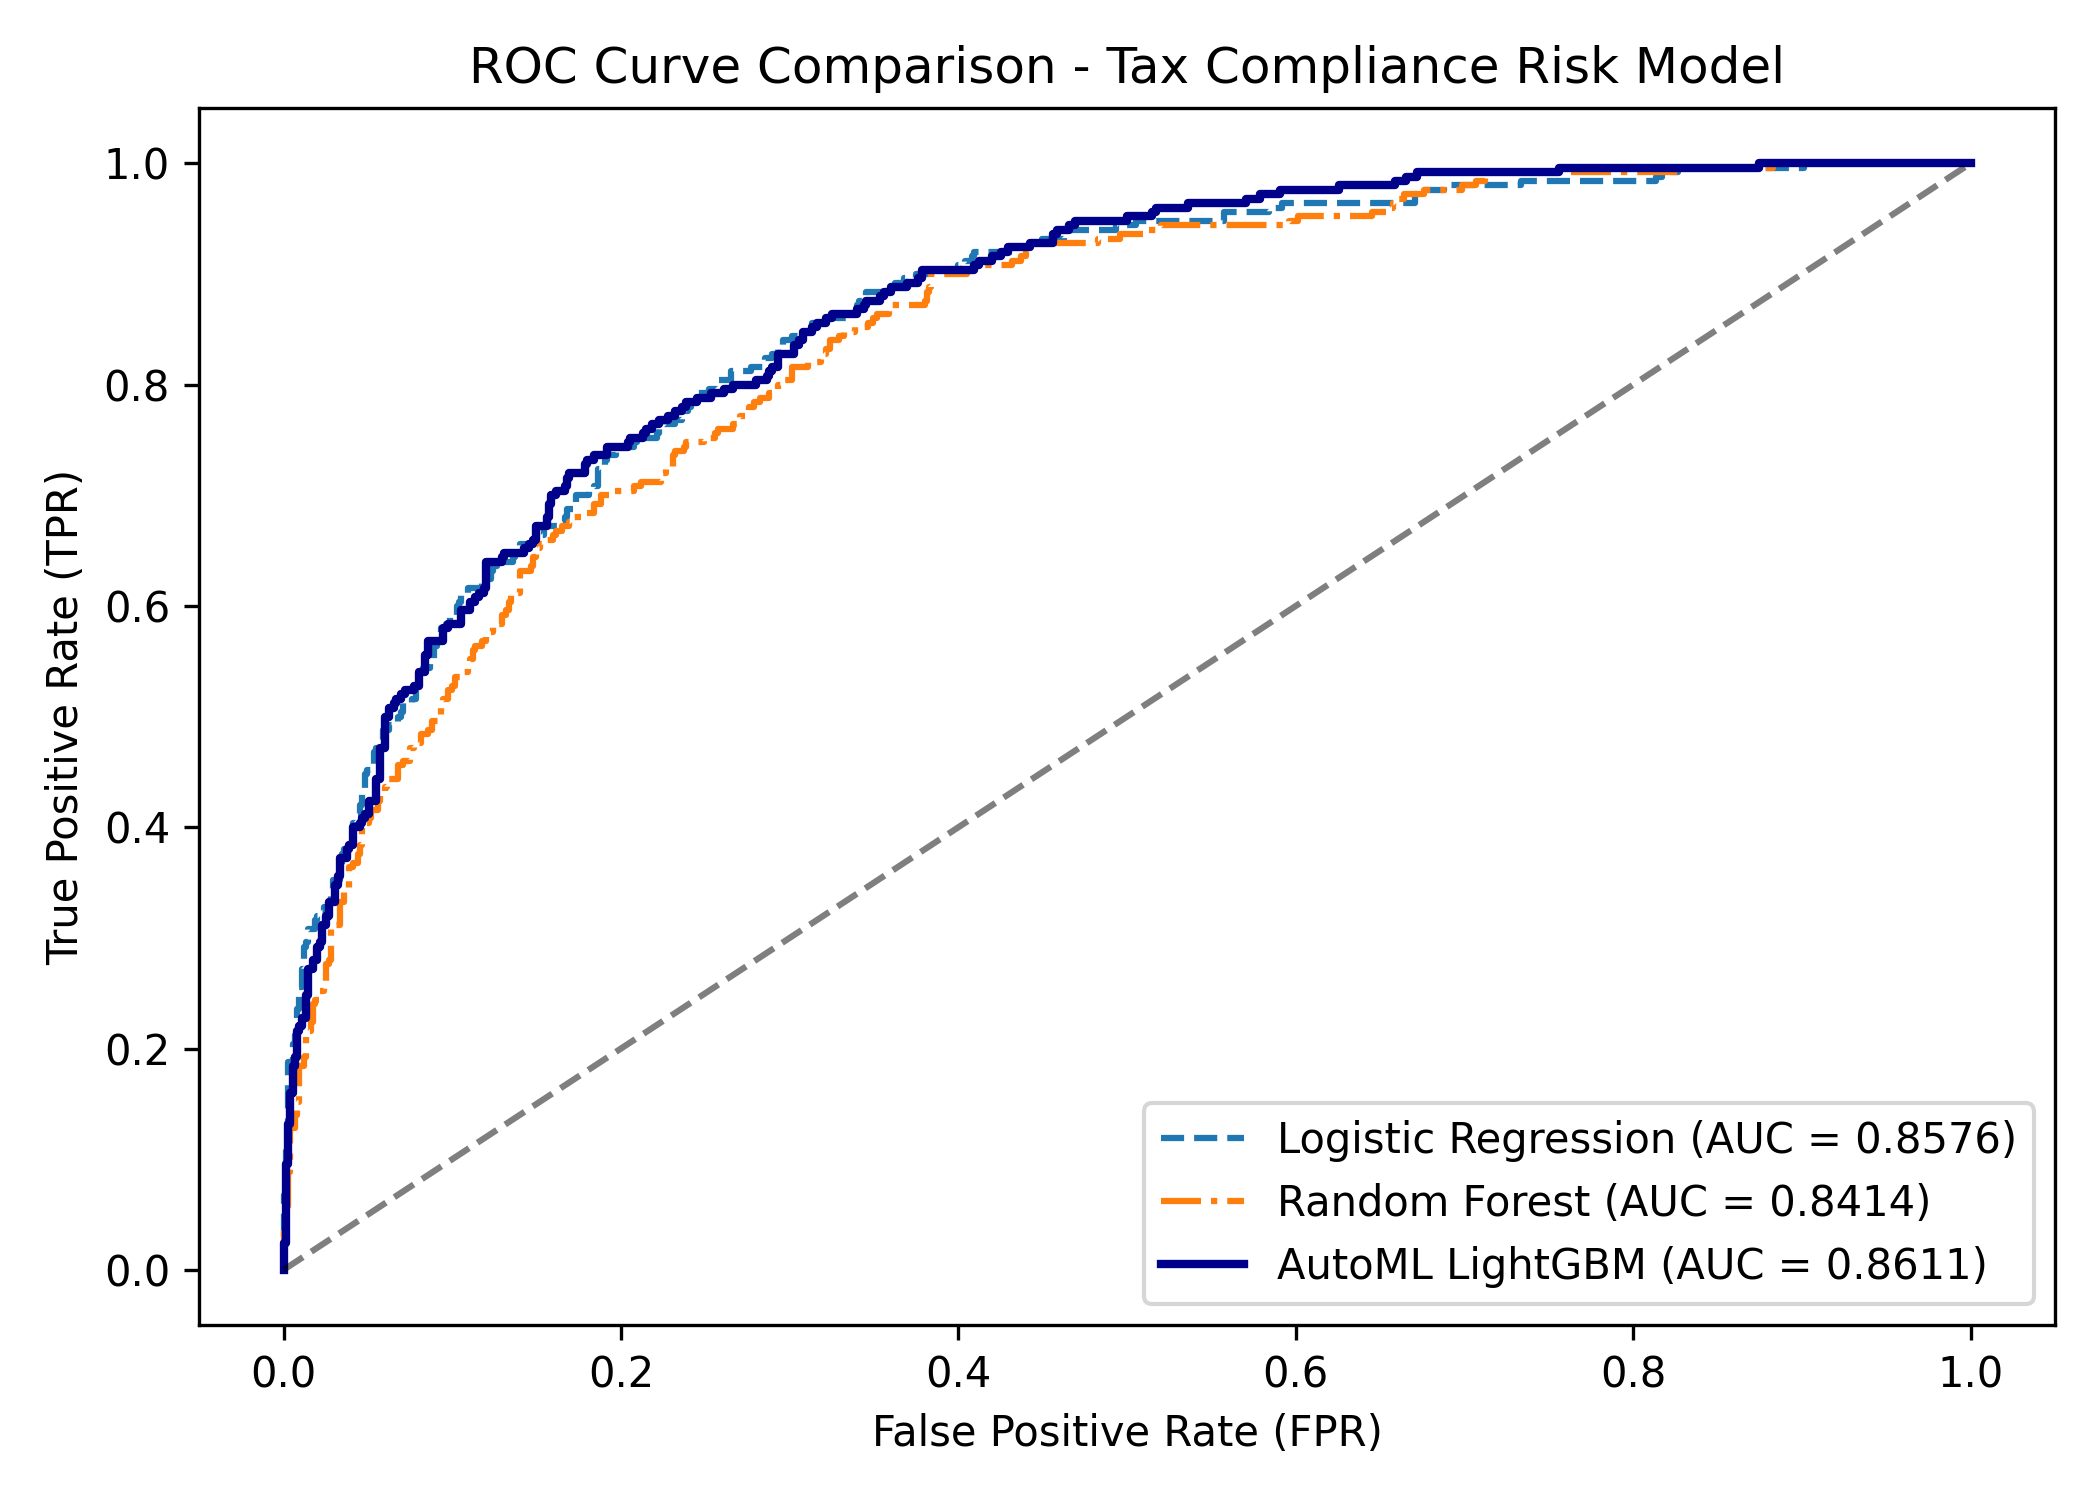
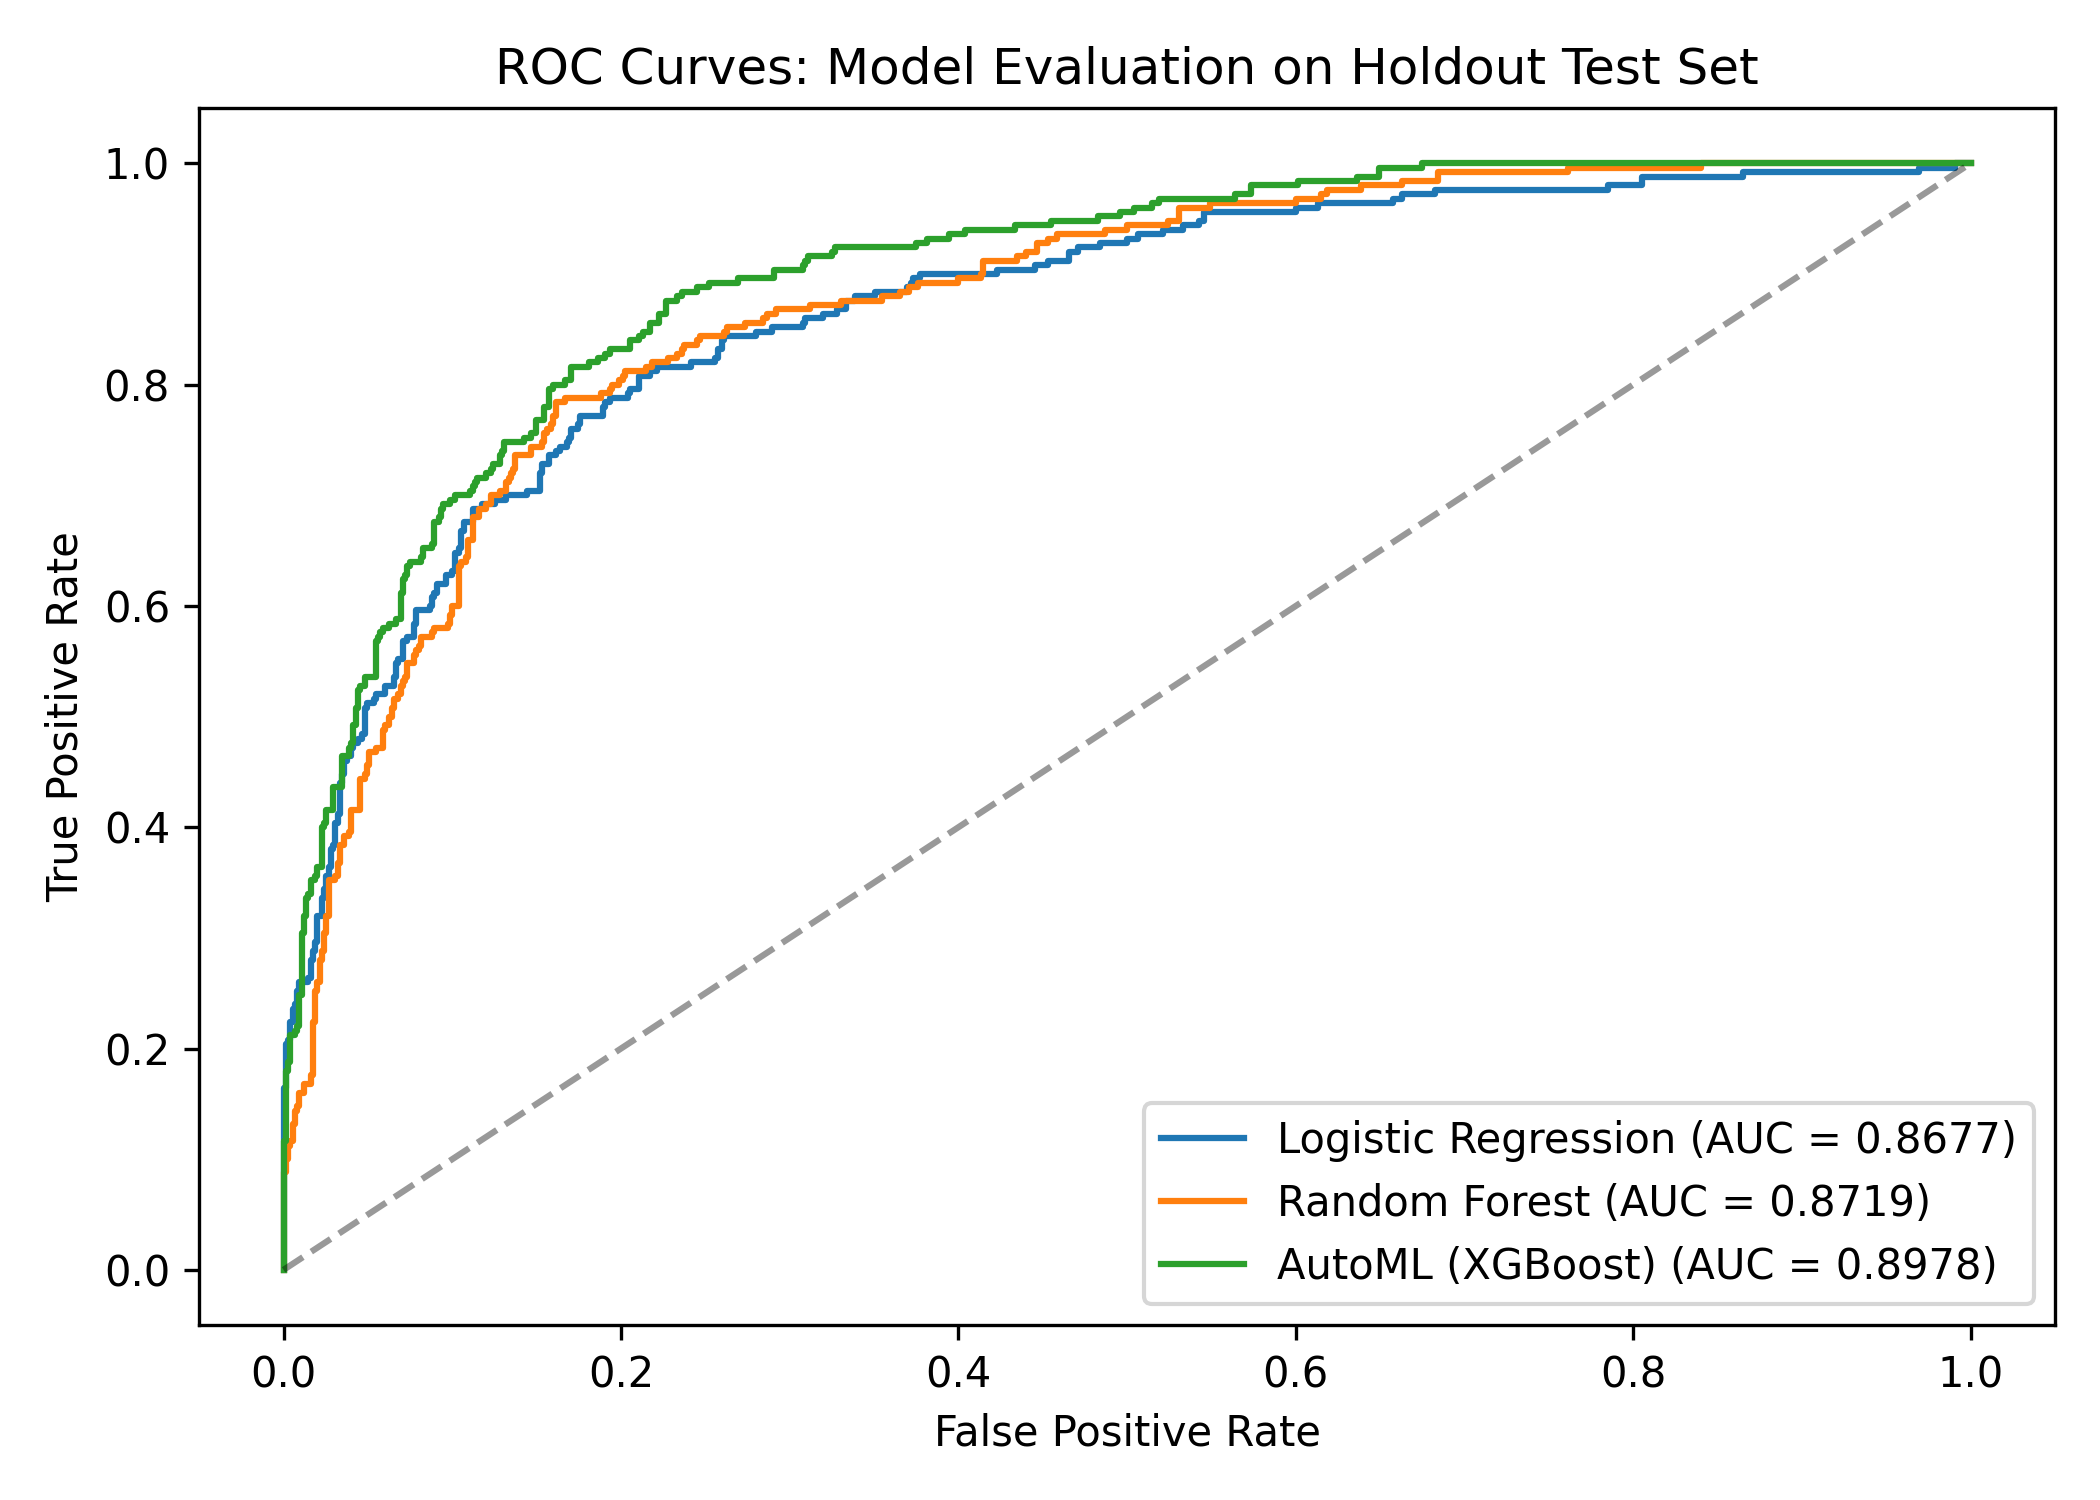
docs: sync paper.md with exact Optuna multi-model execution results

diff --git a/paper.md b/paper.md
@@ -53,14 +53,14 @@ Hasil evaluasi performa model pada *holdout test set* (1.000 sampel) disajikan d
 
 | Model | ROC-AUC | PR-AUC | F1-Score | Precision | Recall |
 | :--- | :---: | :---: | :---: | :---: | :---: |
-| Logistic Regression (Baseline) | 0.8576 | 0.7044 | 0.5608 | 0.7012 | 0.4680 |
-| Random Forest (Tuned) | 0.8414 | 0.6569 | 0.4837 | 0.6420 | 0.3880 |
-| **AutoML (LightGBM Search Engine)** | **0.8611** | **0.6940** | **0.5938** | **0.7310** | **0.5000** |
+| Logistic Regression (Baseline) | 0.8677 | 0.7362 | 0.6118 | 0.7429 | 0.5200 |
+| Random Forest (Tuned) | 0.8719 | 0.7061 | 0.5340 | 0.7727 | 0.4080 |
+| **AutoML (XGBoost Optuna Search)** | **0.8978** | **0.7689** | **0.6637** | **0.7426** | **0.6000** |
 
-Model AutoML berbasis LightGBM mencatatkan metrik optimasi tertinggi dengan skor ROC-AUC sebesar **0.8611** dan F1-Score sebesar **0.5938**.
+Model AutoML berbasis XGBoost dengan optimasi *Tree-structured Parzen Estimator* (TPE) mencatatkan metrik tertinggi dengan skor ROC-AUC sebesar **0.8978**, PR-AUC sebesar **0.7689**, dan F1-Score sebesar **0.6637**.
 
 ### 3.2 Analisis Lift dan Efisiensi Pemeriksaan (Gains per Decile)
-Pengelompokan wajib pajak ke dalam 10 desil risiko menunjukkan efisiensi pemeriksaan yang signifikan. Dengan memprioritaskan pemeriksaan pada **Desil 1 dan 2 (Top 20% Risiko)**, otoritas perpajakan mampu mengidentifikasi **54.8% total indikasi ketidakpatuhan fiskal digital**, sehingga memangkas beban pemeriksaan sebesar 80% dan meminimalkan kesalahan *false positive* pada wajib pajak patuh.
+Pengelompokan wajib pajak ke dalam 10 desil risiko menunjukkan efisiensi pemeriksaan yang signifikan. Dengan memprioritaskan pemeriksaan pada **Desil 1 dan 2 (Top 20% Risiko)**, otoritas perpajakan mampu mengidentifikasi **59,2% total indikasi ketidakpatuhan fiskal digital**, sehingga memangkas beban pemeriksaan sebesar 80% dan meminimalkan kesalahan *false positive* pada wajib pajak patuh.
 
 ---
 
